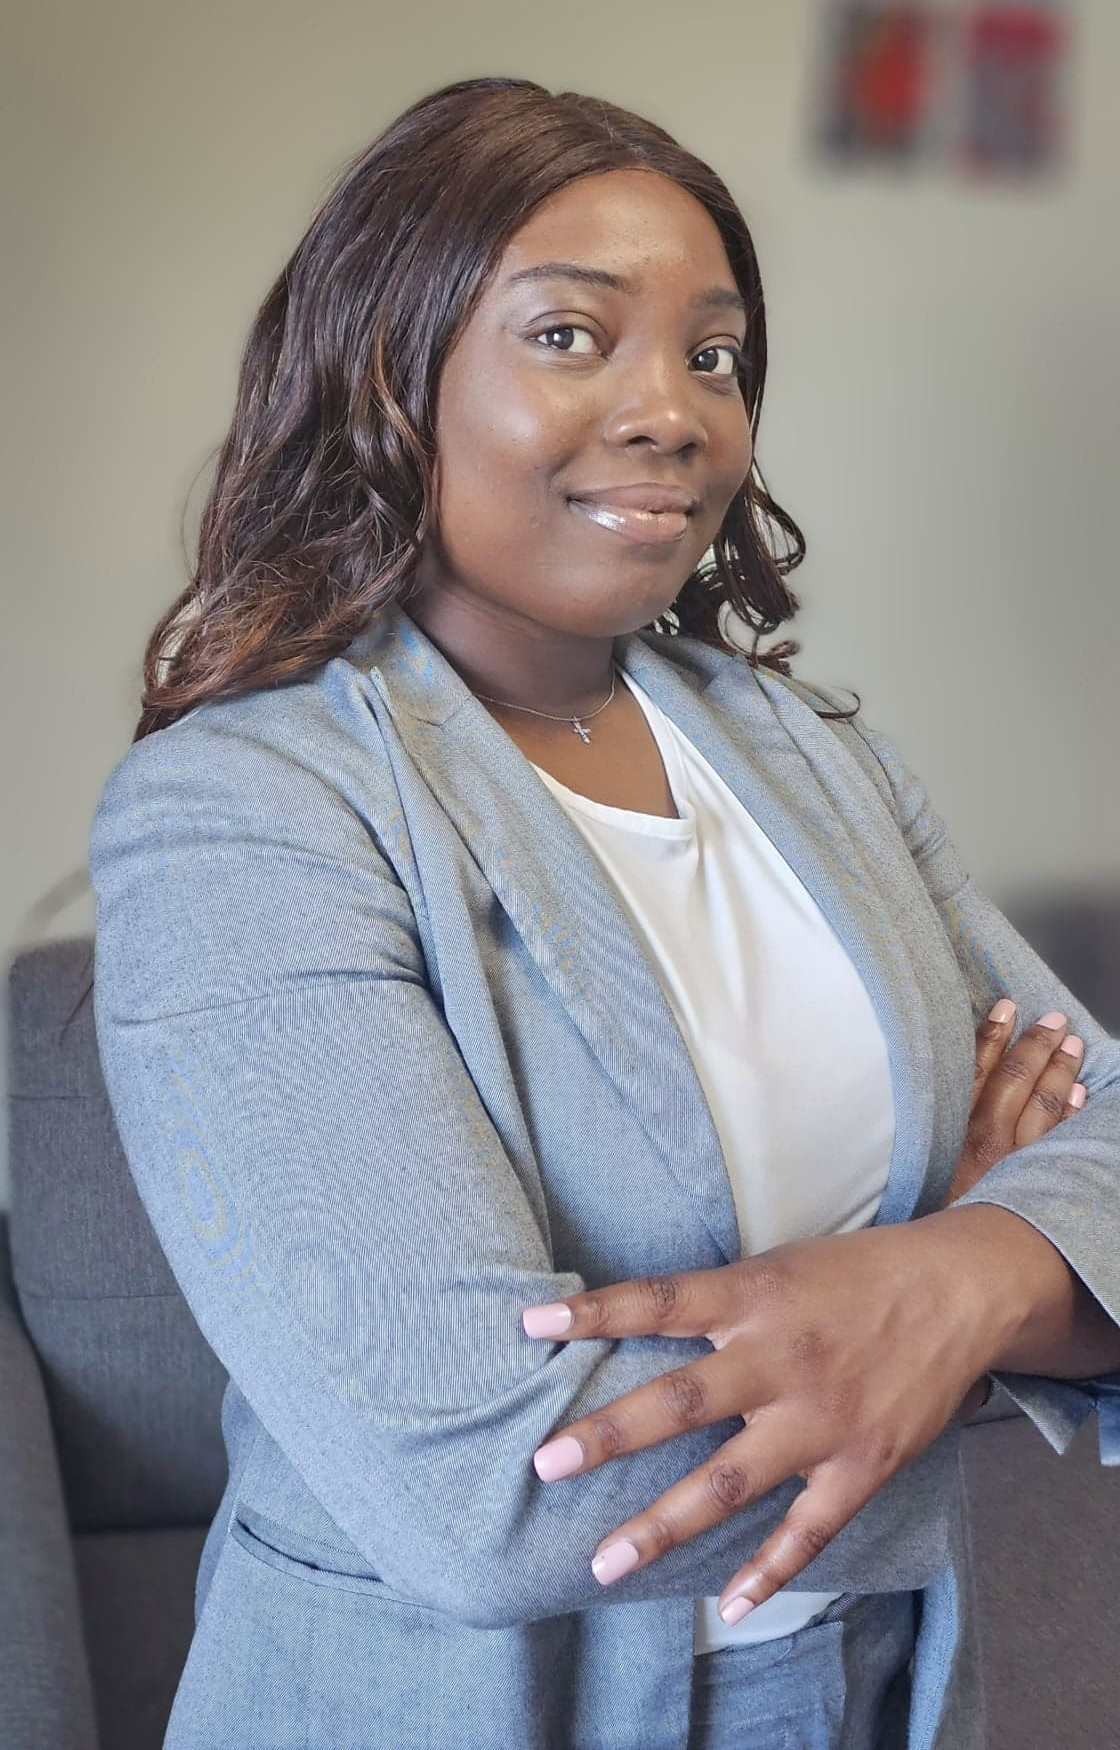
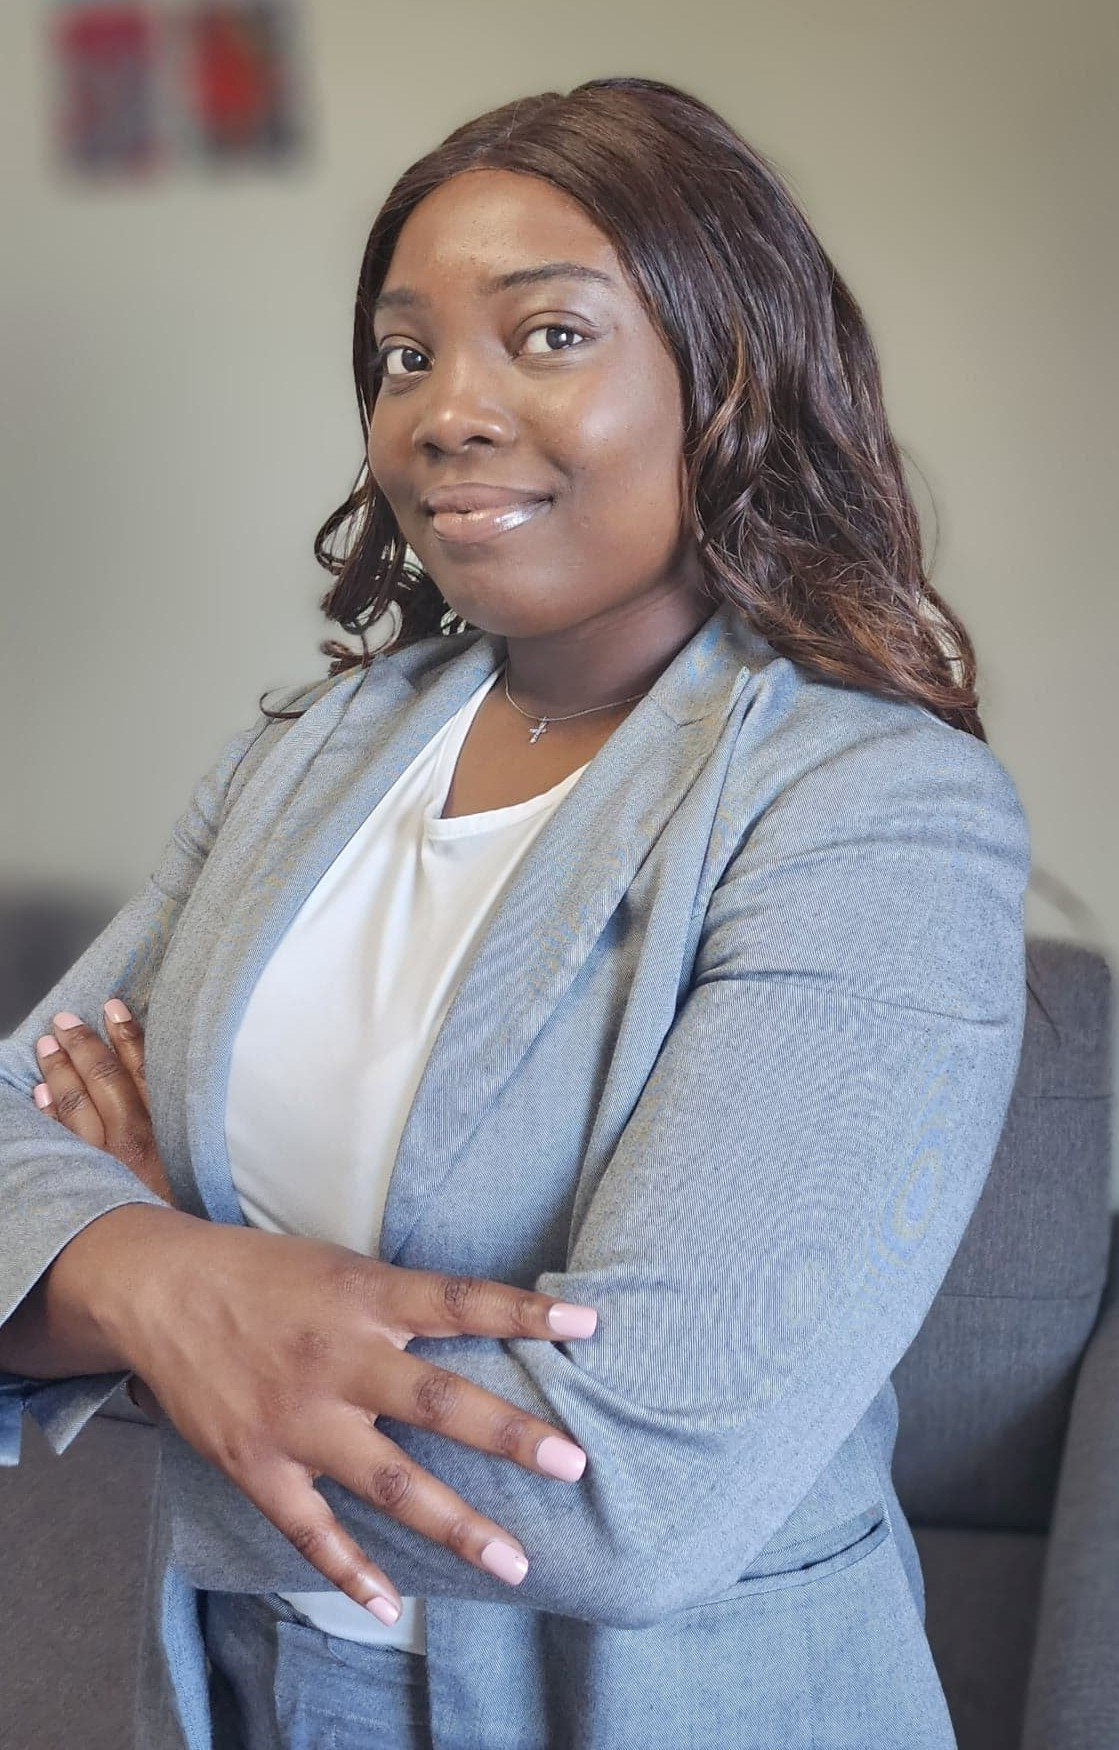
Modified styling and media queries for larger screen for about and hero component

diff --git a/src/components/about/about.js b/src/components/about/about.js
@@ -1,7 +1,8 @@
 import './about.scss';
 import scrolldown from '../../assets/icons/scrolldown.gif';
-import wavyWhite from '../../assets/icons/wavy-white.png';
+import wavyWhite from '../../assets/icons/wavy-pink.png';
 import downloadIcon from '../../assets/icons/download.png';
+import headshot from '../../assets/images/headshot.png';
 
 function About() {
     return(
@@ -16,51 +17,62 @@ function About() {
                     <h2 className='about__title'>ABOUT ME </h2>
                 </article>   
             
-                    <h1 className='about__info' >Creativity + Curiosity
-                        are my superpowers 🦋
+                    <h1 className='about__info' >Hello, World 🦋
                     </h1>
             </section>
-                <p className='about__text' >I enjoy building delightful, 
-                    user-centered digital experiences.
-                </p>
-                <p className='about__text' >A diligent 
-                <strong> Front-End focused Web Developer </strong>
-                with over 2+ years of experience. 
-                </p>
+            <section className='about__user' >
+                <article className='about__text-box' >
+                    <p className='about__text' >Thank you for being here! 
+                    I am Victory Onuoha, a Front-End Web Developer
+                    
+                    </p>
+                    <p className='about__text' > I enjoy building delightful, 
+                        user-centered and accessible digital experiences.
+                    </p>
+                    <p className='about__text' >A diligent 
+                    <strong> Front-End focused Web Developer </strong>
+                    with over 2+ years of experience. I am a graduate 
+                    of BrainStation Web Development Intensive Bootcamp and
+                    I have a BSc in Neuroscience and Psychology from the 
+                    University of Carleton.
+                    </p>
 
-                <p className='about__text' ><strong> Collobarated </strong>
-                     with solo entrepreneurs and businesses
-                    to <strong> transform their digital presence </strong> 
-                    by building stunning, <strong> highly intuituve and performant custom web apps.</strong>
+                    <p className='about__text' > When I am not reading or hiking, I am
+                    passionate about helping <strong> solo entrepreneurs </strong>
+                    and <strong>businesses</strong>  <strong> transform their digital presence </strong> 
+                        by building stunning, <strong> highly intuituve and performant custom web apps.</strong>
+                    </p>
+                </article>
+                <section className='about__photo-box'>
+                    <img src={headshot} alt='a picture of Victory' className='about__photo' />
+                </section>
+            </section>
 
-                </p>
-                <section className='about__skills' >
-                    <h2>IDEATE.</h2>
-                    <h2>SOLVE.</h2>
-                    <h2>COLLABORATE.</h2>
-                    <h2>EXECUTE.</h2>
+                <section className='about__skills-box' >
+                    <h2 className='about__skills' >SKILLS 💻</h2>
                 </section>
                 <p className='about__text'> I am always trying new tools 
-                    and technology but, my current tech stack in my toolbelt is:
-
+                    and technologies but, my current tech stack in my toolbelt is:
                 </p>
 
                
-                
                 <ul className='about__text about__text-list'>
-                    <li>✅HTML5</li>
-                    <li>✅CSS3</li>
-                    <li>✅React.js</li>
-                    <li>✅Javascript</li>
-                    <li>✅Bootstrap</li>
-                    <li>✅Node.js</li>
-                    <li>✅Express.js</li>
-                    <li>✅SQL etc.</li>
+                    <li className='about__text-list-item' >✅HTML5</li>
+                    <li className='about__text-list-item' >✅CSS3</li>
+                    <li className='about__text-list-item' >✅SASS</li>
+                    <li className='about__text-list-item' >✅React</li>
+                    <li className='about__text-list-item' >✅GIT</li>
+                    <li className='about__text-list-item' >✅Javascript</li>
+                    <li className='about__text-list-item' >✅REST API</li>
+                    <li className='about__text-list-item' >✅Bootstrap</li>
+                    <li className='about__text-list-item' >✅Node.js</li>
+                    <li className='about__text-list-item' >✅Express.js</li>
+                    <li className='about__text-list-item' >✅SQL </li>
 
                 </ul>
                 <section className='about__buttons' >
                 <button className='about__button'>
-                    Download CV
+                    DOWNLOAD CV
                     <img src={downloadIcon} alt=' download cv icon' className='about__download-button'/>
                 </button>
             </section>

diff --git a/src/components/about/about.scss b/src/components/about/about.scss
@@ -1,7 +1,16 @@
 @use '../../styles/partials/colors';
 @use '../../styles/partials/mixins';
 .about {
-
+    margin: 1rem 1rem 4rem 1rem;
+    @include mixins.tablet {
+        margin: 1rem 3rem 4rem 3rem;
+    }
+    @include mixins.desktop {
+        margin: 1rem 4rem 4rem 4rem;
+    }
+    @include mixins.largeDesktop {
+        margin: 1rem 8rem 4rem 8rem;
+    }
     &__title {
         margin: 1.245rem 0 1.245rem 1rem ;
         font-size: 2rem;
@@ -9,24 +18,96 @@
     &__info,
     &__text {
         margin-left: 1rem;
-        line-height: 2rem;
-    }
-    &__skills {
-        margin-left: 1rem;
-        font-size: 1.5rem;
-        color: colors.$background-blush;
+        line-height: 2.2rem;
+        @include mixins.desktop {
+            font-size: 2rem;
+            line-height: 3rem;
+        }
     }
     &__text{
         font-size: 1.1rem;
+        width: 90%;
+        text-align: left;
+        @include mixins.tablet {
+            font-size: 1.2rem;
+        }
+        @include mixins.desktop {
+            font-size: 1.5rem;
+        }
+        @include mixins.largeDesktop {
+            font-size: 1.8rem;
+        }
+    }
+    &__skills-box {
+        display: flex;
+        justify-content: center;
+    }
+    &__skills {
+        margin: 2rem 0 1rem 0;
+        @include mixins.desktop {
+            margin: 2rem 0 0 0;
+            font-size: 2rem;
+        }
+        @include mixins.largeDesktop {
+            margin: 8rem 0 0 0;
+        }
+    }
+    &__photo-box {
+        display: flex;
+        justify-content: center;
+        width: 50%;
+        height: 50%;
+        @include mixins.desktop {
+            width: 50%;
+        }
+    }
+    &__photo {
+        width: 80%;
+        margin: 1rem;
+        border-radius: 1rem;
+        @include mixins.tablet {
+            width: 60%;
+        }
+        @include mixins.desktop {
+            width: 100%;
+        }
     }
     &__text-list {
         list-style-type: none;
+        @include mixins.desktop {
+            display: flex;
+            flex-wrap: wrap;
+        }
+    }
+    &__text-list-item {
+        @include mixins.desktop {
+            padding: 1rem;
+        }
     }
     &__title-box {
         display: flex;
+        @include mixins.tablet {
+            justify-content: flex-start;
+        }
     }
     &__title-line {
         margin-left: 1rem;
+    }
+    &__title {
+        @include mixins.desktop{
+            font-size: 3rem ;
+        }
+    }
+    &__user {
+        @include mixins.desktop {
+            display: flex;
+        }
+    }
+    &__text-box {
+        @include mixins.desktop {
+            width: 50%;
+            margin: 0 2rem 0 0;
+        }
     }
     &__buttons {
         display: flex;
@@ -45,6 +126,9 @@
         align-items: center;
         border-radius: 0.5rem;
        padding:  0.5rem;
+       @include mixins.desktop {
+        font-size: 1.2rem;
+       }
     }
     &__download-button {
         width: 1rem;

diff --git a/src/components/hero/hero.js b/src/components/hero/hero.js
@@ -3,7 +3,7 @@ import linkedinIcon from '../../assets/icons/linkedin.svg';
 import githubIcon from '../../assets/icons/github.svg';
 import downloadIcon from '../../assets/icons/download.png';
 import lineBlack from '../../assets/icons/line-black.png';
-import hero from '../../assets/images/heroimage.jpg';
+import hero from '../../assets/images/heroimage.png';
 import './hero.scss';
 
 function Hero() {
@@ -20,13 +20,12 @@ function Hero() {
 
                         <section className='hero__title-box' >
                             <h2 className='hero__job-title'> Hello, my name is Victory.</h2>
-                            <h2 className='hero__job-title'> I am a Front-end Web Developer.</h2>
+                            <h2 className='hero__job-title'> I am a Front-End Web Developer.</h2>
                         </section>
                         
                         <section className='hero__buttons' >
                             <button className='hero__button'>
-                                DOWNLOAD CV
-                                <img src={downloadIcon} alt=' download cv icon' className='hero__download-button'/>
+                                WORK WITH ME
                             </button>
                         </section>
                     </article>

diff --git a/src/components/hero/hero.scss b/src/components/hero/hero.scss
@@ -132,8 +132,12 @@
        font-weight: 700;
        font-family: inherit;
         cursor: pointer;
+        @include mixins.desktop {
+            font-size: 1.2rem;
+            padding: 0.9rem 1rem;
+        }
         @include mixins.maxLargeDesktop {
-            font-size: 2rem;
+            font-size: 1.5rem;
             padding: 0.8rem 1.2rem;
             border-radius: 1rem ;
         }

diff --git a/src/styles/partials/_colors.scss b/src/styles/partials/_colors.scss
@@ -6,3 +6,4 @@ $primary-white: #FFFFFF;
 $background-pink: #FFF3F3;
 $background-blush: #CC3B7A;
 $background-blue: #253782;
+$background-brown: #EAE0E0;

diff --git a/src/components/projects/projects.scss b/src/components/projects/projects.scss
@@ -7,6 +7,7 @@
     justify-content: center;
     align-items: center;
     width: 100%;
+    
     &__header {
         font-size: 2rem;
     }
